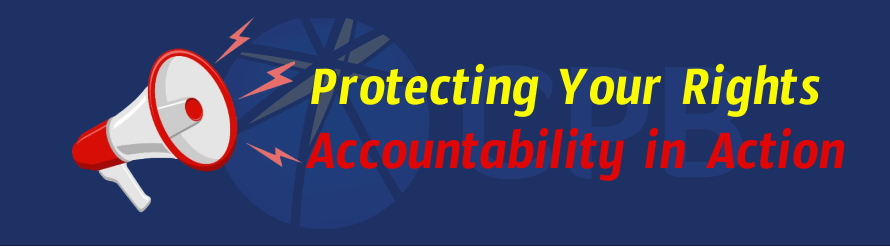
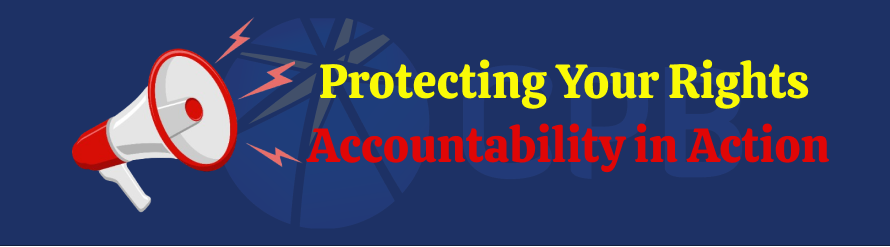
commit

Changed region(s): [[0.3337, 0.4818, 0.9708, 0.7368], [0.3337, 0.2267, 0.9404, 0.4818]]

diff --git a/assets/css/style.css b/assets/css/style.css
@@ -846,6 +846,7 @@ body {
     display: flex;
     justify-content: center;
 }
+
 @keyframes rainbow-animation {
     to {
         background-position: 4500vh;
@@ -1071,3 +1072,9 @@ body {
   
     }
 }
+
+.baskervville-regular {
+    font-family: "Baskervville", serif !important;
+    font-weight: 400;
+    font-style: normal;
+  }

diff --git a/news/adgm-fines-wazim-nazir-following-consumer-protection-bureau-intervention.php b/news/adgm-fines-wazim-nazir-following-consumer-protection-bureau-intervention.php
@@ -42,7 +42,8 @@ if (isset($_POST['form-contact'])) {
 <html lang="en">
 
 <head>
-    <title>ADGM Fines Wazim Nazir Following Consumer Protection Bureau's Intervention - Consumer Alert News - (CPB)</title>
+    <title>ADGM Fines Wazim Nazir Following Consumer Protection Bureau's Intervention - Consumer Alert News - (CPB)
+    </title>
     <meta name="description"
         content="Stay updated with the Consumer Protection Bureau UK. Explore the latest consumer alerts, UK consumer laws, and protection tips from a trusted agency.">
     <!-- Required meta tags -->
@@ -67,27 +68,29 @@ if (isset($_POST['form-contact'])) {
         href="https://www.consumerprotectionbureau.co.uk/news/price-display-discrepancy-at-asada-store.php">
     <link href="https://fonts.googleapis.com/css2?family=Montserrat:ital,wght@0,100..900;1,100..900&display=swap"
         rel="stylesheet">
+        <link href="https://fonts.googleapis.com/css2?family=Baskervville:ital@0;1&display=swap" rel="stylesheet">
     <link rel="icon" type="image/x-icon" href="../assets/images/favicon.ico">
     <link rel="stylesheet" href="../assets/css/style.css">
     <script src="https://www.google.com/recaptcha/api.js" async defer></script>
 </head>
 
 <?php include 'assets/include/header.php'; ?>
-<main>
+<main class="baskervville-regular">
 
     <section class="py-lg-5 py-4 bg-light about-hero">
         <div class="container">
             <div class="row">
                 <div class="col-lg-10 mx-auto bg-gold p-0">
-                    <img src="../assets/images/news/adgm-fines-wazim-nazir-following-consumer-protection-bureau-intervention.png" alt="" class="w-100 h-auto">
+                    <img src="../assets/images/news/adgm-fines-wazim-nazir-following-consumer-protection-bureau-intervention.png"
+                        alt="" class="w-100 h-auto">
 
                     <div class="px-lg-5 px-3">
-                        <h1 class="news-heading text-uppercase  my-3">
+                        <h1 class="news-heading text-uppercase  my-3 baskervville-regular">
                             <span class="text-alert">Justice Served: </span>
                             ADGM Fines Wazim Nazir Following Consumer Protection Bureau's Intervention
                             </span>
                         </h1>
-                        <p class="text">
+                        <p class="text w-700">
                             In a significant victory for consumer protection and regulatory integrity, the Abu Dhabi
                             Global Market (ADGM) Registration Authority has imposed financial penalties on HSQ Holdings
                             Ltd, PL1 Holdings Ltd, and their director, Mohammed Wazim Nazir, for egregious breaches of
@@ -101,28 +104,30 @@ if (isset($_POST['form-contact'])) {
                             false information, concealing ongoing disputes with property owners and continuing
                             operations post-application.
                         </p>
-                        
+
                         <div class="row mt-4 mb-4">
-                            <div class="col-lg-6">
-                            <img src="../assets/images/news/Hanover Square in JVC dubai.jpg"
-                            alt="Consumet Protection Bureau Uk Alert News about ADGM Fines Wazim Nazir Following Consumer Protection Bureau's Intervention "
-                            class="w-100  shadow rounded-2 mb-lg-0 mb-3" style="border: 2px solid #223a78">
+                            <div class="col-lg-12">
+                                <img src="../assets/images/news/Hanover Square in JVC dubai.jpg"
+                                    alt="Consumet Protection Bureau Uk Alert News about ADGM Fines Wazim Nazir Following Consumer Protection Bureau's Intervention "
+                                    class="w-100  shadow rounded-2  mb-3" style="border: 2px solid #223a78">
                             </div>
-                            <div class="col-lg-6">
-                            <img src="../assets/images/news/Platinum One Dubai.jpg"
-                            alt="Consumet Protection Bureau Uk Alert News about ADGM Fines Wazim Nazir Following Consumer Protection Bureau's Intervention "
-                            class="w-100  shadow rounded-2" style="border: 2px solid #223a78">
+                            <div class="col-lg-12">
+                                <img src="../assets/images/news/Platinum One Dubai.jpg"
+                                    alt="Consumet Protection Bureau Uk Alert News about ADGM Fines Wazim Nazir Following Consumer Protection Bureau's Intervention "
+                                    class="w-100  shadow rounded-2" style="border: 2px solid #223a78">
                             </div>
 
                             <div class="col-lg-12 order-lg-2 order-1">
-                            
+
                                 <h3 class="text-md text-bold  text-primary w-700 text-start mt-4">
                                     CPB's Role in Exposing the Fraud
                                 </h3>
                                 <p class="text">
-                                    This case came to light only after the Compliance and Risk Consultancy (CRC) group,
+                                    This case came to light only after the <b>Compliance and Risk Consultancy (CRC)</b>
+                                    group,
                                     through its Consumer Protection Bureau (CPB), intervened. When Wazim Nazir sought to
-                                    voluntarily wind up HSQ and PL1, CRC raised formal objections and mobilised affected
+                                    voluntarily wind up HSQ and PL1, <b>CRC raised formal objections </b> and mobilised
+                                    affected
                                     property owners to challenge the application. Many owners provided statements and
                                     depositions to ADGM with CPB's assistance, exposing Nazir's misconduct and systemic
                                     violations. Without this organised and strategic push, Nazir and his entities might
@@ -135,66 +140,72 @@ if (isset($_POST['form-contact'])) {
                                     This is not just a victory for justice but also a stark reminder of the power of
                                     unified consumer action when supported by organisations like CPB.
                                 </p>
+                                <div>
+                                    <h3 class="text-md text-bold text-primary w-700">Fighting for Consumer Rights and
+                                        Justice
+                                    </h3>
+                                    <p class="text">
+                                        While the ADGM decision serves as a critical win, the plight of property owners
+                                        at <b> Hanover Square Central and Platinum One (PL1) </b> remains unresolved.
+                                        CPB has
+                                        identified significant consumer rights violations stemming from the exploitative
+                                        <b>Sales and Purchase Agreement (SPA)</b> imposed by ACW, a company owned by
+                                        Wazim
+                                        Nazir.
+                                    </p>
+                                    <p class="text">
+                                        This SPA binds owners to ACW's management for <b>20 years</b> with no exit options—a
+                                        clause that not only deprives owners of their legal rights but also locks them
+                                        into years of financial distress. ACW continues to rent out the apartments
+                                        without providing owners with any meaningful <b>Return on Investment (ROI)</b>.
+                                        Frustration is widespread: only a small fraction of owners receive minimal
+                                        returns, while the majority have suffered losses with no clear remedy in sight.
+                                    </p>
+                                </div>
                                 <div class="">
                                     <h3 class="text-md text-bold text-primary w-700">ACW: The Next Battle for Consumer Rights
                                     </h3>
                                     <p class="text">
-                                        While this decision marks progress, the fight is far from over. The property
-                                        owners of HSQ and PL1 remain in a dire situation. Their apartments are managed
-                                        by ACW, owned by Wazim Nazir, a company operating under a deeply flawed Sales
-                                        and Purchase Agreement (SPA). This SPA includes abusive clauses, denying owners
-                                        any exit option and binding them to ACW's management for an astonishing 20
-                                        years.
+                                    While this decision marks progress, the fight is far from over. The property owners of HSQ and PL1 remain in a dire situation. Their apartments are managed by ACW, owned by Wazim Nazir, a company operating under a deeply flawed Sales and Purchase Agreement (SPA). This SPA includes abusive clauses, denying owners any exit option and binding them to ACW's management for an astonishing 20 years.
                                     </p>
                                     <p class="text">
-                                        Most owners are angry and disappointed. Their properties are rented out, yet
-                                        they have received little to no ROI for several years. Only a small handful are
-                                        receiving minimal returns, which amount to little more than peanuts compared to
-                                        market expectations. This untenable situation has shattered trust and further
-                                        exacerbated financial losses for already frustrated owners.
+                                    Most owners are angry and disappointed. Their properties are rented out, yet they have received little to no ROI for several years. Only a small handful are receiving minimal returns, which amount to little more than peanuts compared to market expectations. This untenable situation has shattered trust and further exacerbated financial losses for already frustrated owners.
                                     </p>
                                     <h3 class="text-md text-bold text-primary w-700">CPB Will Take Action</h3>
                                     <p class="text">
-                                        The Consumer Protection Bureau, as part of the CRC Group, is committed to
-                                        ensuring that consumer rights prevail. We are launching a vigorous campaign to
-                                        challenge ACW's abusive management practices.
+                                    The Consumer Protection Bureau, as part of the CRC Group, is committed to ensuring that consumer rights prevail. We are launching a vigorous campaign to challenge ACW's abusive management practices.
                                     </p>
-                                   
-                                    <div class="text shadow-sm rounded-2  p-3 border" 
-                                    style="background-color:#FEE8CF !important;">
-                                    <p class="text">
-                                        <b>We will not rest until:</b>
-                                    </p>
-                                    <ol>
-                                        <li>
-                                            <p class="text mb-0 pb-0">
-                                                ACW is ousted as the manager of Hanover Square Central and Platinum One
-                                                (PL1) properties.
-                                            </p>
-                                        </li>
 
-                                        <li>
-                                            <p class="text mb-0 pb-0">
-                                                Dubai authorities step in to dismantle exploitative SPAs that lock
-                                                owners into long-term, one-sided agreements.
+                                    <div class="text shadow-sm rounded-2  p-3 border"
+                                        style="background-color:#FEE8CF !important;">
+                                        <h3 class="text-md text-bold text-primary w-700">CPB’s Consumer Rights Campaign</h3>
+                                        <p class="text">
+                                            <b>As the consumer protection advocate, CPB will:</b>
+                                        </p>
+                                        <ol>
+                                            <li>
+                                                <p class="text mb-0 pb-0">
+                                                <b>ACW is ousted</b> as the manager of <b>Hanover Square Central and Platinum One (PL1)</b> properties.
+                                                </p>
+                                            </li>
 
-                                            </p>
-                                        </li>
-                                        <li>
-                                            <p class="text mb-0 pb-0">
-                                                Property owners take over their apartments as they rightfully and
-                                                legally deserve.
-                                            </p>
-                                        </li>
+                                            <li>
+                                                <p class="text mb-0 pb-0">
+                                                <b>Dubai authorities</b> step in to dismantle exploitative SPAs that lock owners into long-term, one-sided agreements.
 
-                                    </ol>
-                                </div>
+                                                </p>
+                                            </li>
+                                            <li>
+                                                <p class="text mb-0 pb-0">
+                                                <b>Property owners</b> take over their apartments as they rightfully and legally deserve.
+                                                </p>
+                                            </li>
+
+                                        </ol>
+                                    </div>
                                 </div>
                                 <p class="text mt-3">
-                                    This case highlights a growing need for stringent oversight, transparent management
-                                    agreements, and stronger consumer protection mechanisms in the UAE property sector.
-                                    CPB will continue working with DLD and other UAE authorities to fight relentlessly
-                                    for fairness, accountability, and justice for all affected property owners.
+                                This case highlights a growing need for stringent oversight, transparent management agreements, and stronger consumer protection mechanisms in the UAE property sector. CPB will continue working with DLD and other UAE authorities to fight relentlessly for fairness, accountability, and justice for all affected property owners.
                                 </p>
 
 
